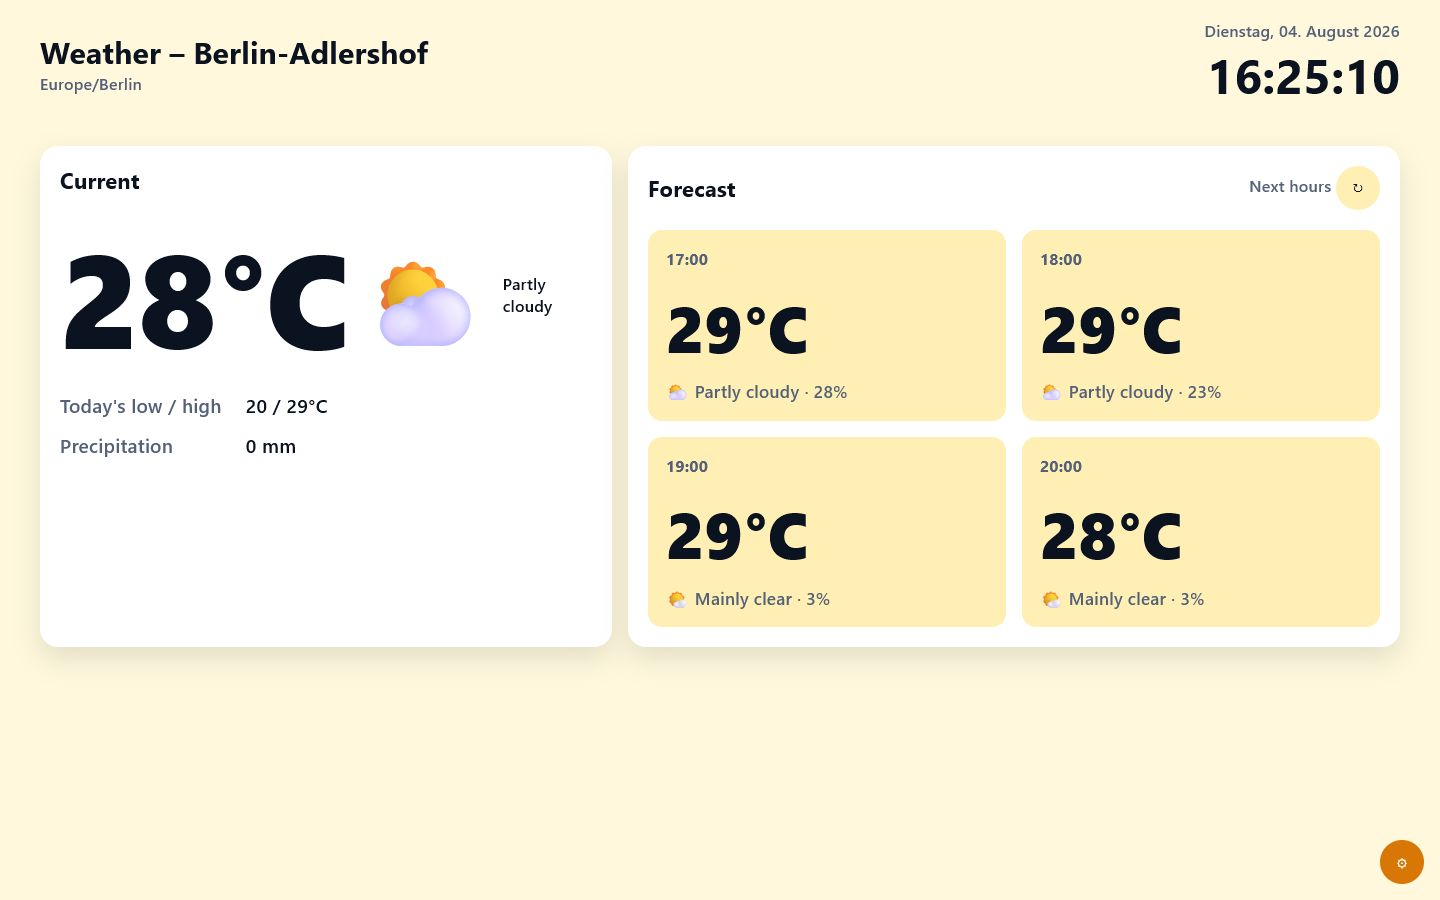
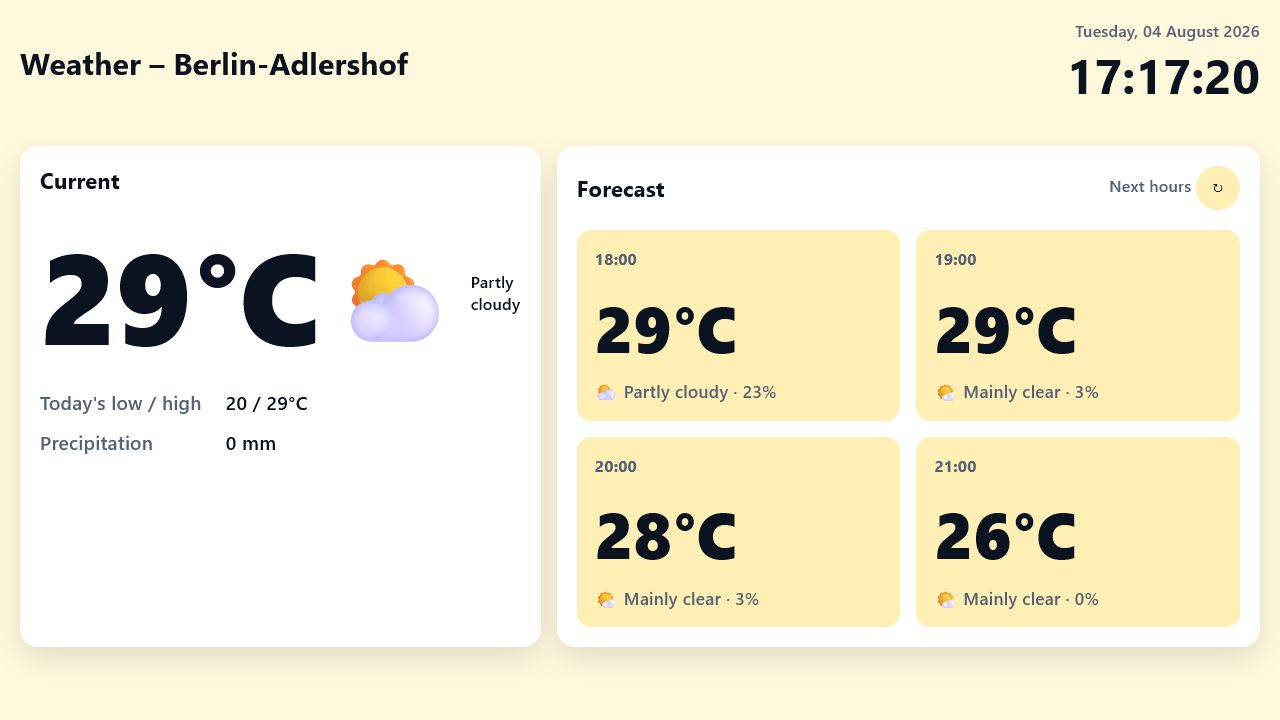
Refresh documentation and screenshots

diff --git a/app.js b/app.js
@@ -1,22 +1,23 @@
-import { DEFAULT_CONFIG } from "./config.js?v=3.7.1";
-import { cacheKey, configFromUrl, weatherInfo } from "./weather.js?v=3.7.1";
-import { fetchWeather, getProvider } from "./providers.js?v=3.7.1";
-import { initialiseSettings, loadSettings } from "./settings.js?v=3.7.1";
+import { DEFAULT_CONFIG } from "./config.js?v=3.7.2";
+import { cacheKey, configFromUrl, weatherInfo } from "./weather.js?v=3.7.2";
+import { fetchWeather, getProvider } from "./providers.js?v=3.7.2";
+import { initialiseSettings, loadSettings } from "./settings.js?v=3.7.2";
 import {
   compareVersions,
   getLatestRelease,
   RELEASES_URL,
-} from "./version.js?v=3.7.1";
+  VERSION_CACHE_KEY,
+} from "./version.js?v=3.7.2";
 import {
   getYearProgress,
   getYearProgressPresentation,
-} from "./progress.js?v=3.7.1";
+} from "./progress.js?v=3.7.2";
 import {
   detectDisplay,
   formatDisplaySummary,
   resolveDisplay,
-} from "./display.js?v=3.7.1";
-import { applyStaticTranslations, translate } from "./i18n.js?v=3.7.1";
+} from "./display.js?v=3.7.2";
+import { applyStaticTranslations, translate } from "./i18n.js?v=3.7.2";
 
 const config = configFromUrl({ ...DEFAULT_CONFIG, ...loadSettings() });
 config.locale = config.language === "de" ? "de-DE" : "en-GB";
@@ -42,7 +43,9 @@ async function renderVersionStatus() {
   const element = $("latest-version");
   element.href = RELEASES_URL;
   try {
-    const latest = await getLatestRelease();
+    const latest = await getLatestRelease({
+      cacheKey: `${VERSION_CACHE_KEY}:${config.version}`,
+    });
     const updateAvailable = compareVersions(latest, config.version) > 0;
     element.textContent = updateAvailable
       ? t("updateAvailable", { version: latest })

diff --git a/version.js b/version.js
@@ -23,9 +23,9 @@ export function compareVersions(left, right) {
   return 0;
 }
 
-function readCachedRelease(storage, now) {
+function readCachedRelease(storage, now, cacheKey) {
   try {
-    const cached = JSON.parse(storage.getItem(VERSION_CACHE_KEY));
+    const cached = JSON.parse(storage.getItem(cacheKey));
     if (
       cached?.version &&
       Number.isFinite(cached.checkedAt) &&
@@ -42,8 +42,9 @@ export async function getLatestRelease({
   fetchImpl = fetch,
   storage = localStorage,
   now = Date.now(),
+  cacheKey = VERSION_CACHE_KEY,
 } = {}) {
-  const cached = readCachedRelease(storage, now);
+  const cached = readCachedRelease(storage, now, cacheKey);
   if (cached) return cached;
 
   const response = await fetchImpl(LATEST_RELEASE_API, {
@@ -56,10 +57,7 @@ export async function getLatestRelease({
   if (!/^\d+\.\d+\.\d+$/.test(version))
     throw new Error("GitHub returned an invalid release version");
   try {
-    storage.setItem(
-      VERSION_CACHE_KEY,
-      JSON.stringify({ version, checkedAt: now }),
-    );
+    storage.setItem(cacheKey, JSON.stringify({ version, checkedAt: now }));
   } catch {
     // The live result remains usable when storage is unavailable.
   }

diff --git a/index.html b/index.html
@@ -9,8 +9,8 @@
       content="A resilient, backend-free DWD weather display for kiosk browsers."
     />
     <title>Weather display</title>
-    <link rel="stylesheet" href="styles.css?v=3.7.1" />
-    <link rel="manifest" href="manifest.webmanifest?v=3.7.1" />
+    <link rel="stylesheet" href="styles.css?v=3.7.2" />
+    <link rel="manifest" href="manifest.webmanifest?v=3.7.2" />
   </head>
   <body>
     <button
@@ -421,10 +421,10 @@
           }
         });
         navigator.serviceWorker
-          .register("./sw.js?v=3.7.1", { updateViaCache: "none" })
+          .register("./sw.js?v=3.7.2", { updateViaCache: "none" })
           .catch(() => {});
       }
     </script>
-    <script type="module" src="app.js?v=3.7.1"></script>
+    <script type="module" src="app.js?v=3.7.2"></script>
   </body>
 </html>

diff --git a/test/version.test.js b/test/version.test.js
@@ -28,4 +28,14 @@ test("loads and caches the latest GitHub release", async () => {
     "3.0.3",
   );
   assert.match(values.get(VERSION_CACHE_KEY), /3\.0\.3/);
+  assert.equal(
+    await getLatestRelease({
+      fetchImpl,
+      storage,
+      now: 2000,
+      cacheKey: `${VERSION_CACHE_KEY}:3.7.2`,
+    }),
+    "3.0.3",
+  );
+  assert.match(values.get(`${VERSION_CACHE_KEY}:3.7.2`), /3\.0\.3/);
 });

diff --git a/scripts/validate-site.js b/scripts/validate-site.js
@@ -15,6 +15,12 @@ const requiredFiles = [
   "manifest.webmanifest",
   "config.js",
   "LICENSE",
+  "docs/images/kiosk-desktop.png",
+  "docs/images/kiosk-daily-forecast.png",
+  "docs/images/settings-dialog.png",
+  "docs/images/settings-appearance.png",
+  "docs/images/mode-essential.png",
+  "docs/images/mode-glance.png",
 ];
 
 await Promise.all(requiredFiles.map((file) => access(file)));

diff --git a/config.js b/config.js
@@ -3,7 +3,7 @@
  * ?lat=52.4357&lon=13.5406&name=Berlin-Adlershof&timezone=Europe/Berlin
  */
 export const DEFAULT_CONFIG = Object.freeze({
-  version: "3.7.1",
+  version: "3.7.2",
   latitude: 52.4357,
   longitude: 13.5406,
   locationName: "Berlin-Adlershof",

diff --git a/providers.js b/providers.js
@@ -1,4 +1,4 @@
-import { buildWeatherUrl, normalizeWeather } from "./weather.js?v=3.7.1";
+import { buildWeatherUrl, normalizeWeather } from "./weather.js?v=3.7.2";
 
 export const WEATHER_PROVIDERS = Object.freeze({
   openMeteoDwd: Object.freeze({

diff --git a/progress.js b/progress.js
@@ -58,4 +58,4 @@ export function getYearProgressPresentation(
     hidden: mode === "hidden",
   };
 }
-import { translate } from "./i18n.js?v=3.7.1";
+import { translate } from "./i18n.js?v=3.7.2";

diff --git a/sw.js b/sw.js
@@ -1,4 +1,4 @@
-const VERSION = "3.7.1";
+const VERSION = "3.7.2";
 const CACHE = `weather-display-shell-v${VERSION}`;
 const asset = (path) => `${path}?v=${VERSION}`;
 const ASSETS = [

diff --git a/README.md b/README.md
@@ -1,8 +1,10 @@
 # Weather Info Display
 
-A backend-free weather dashboard designed for an unattended browser in kiosk mode. It uses the high-resolution DWD ICON forecast through Open-Meteo, ships as static files, and requires no API key.
+A privacy-friendly, bilingual weather dashboard for unattended kiosk, wall-tablet, and smart-display browsers. The standard configuration uses the high-resolution DWD ICON forecast through Open-Meteo, runs entirely as static files, and requires no API key.
 
-Berlin-Adlershof is the included example location. You can change it without rebuilding the application.
+[Live demo](https://heckpiet.github.io/Info-Display-Wetter_Berlin_Adlershof/) · [Latest release](https://github.com/heckpiet/Info-Display-Wetter_Berlin_Adlershof/releases/latest) · [Documentation](docs/SETTINGS.md) · [Provider setup](docs/WEATHER_PROVIDERS.md)
+
+Berlin-Adlershof is the included example location. Location, language, visual density, icon style, kiosk spacing, and secondary-information behavior can be changed without rebuilding the application.
 
 ## Screenshots
 
@@ -10,7 +12,7 @@ Berlin-Adlershof is the included example location. You can change it without reb
 
 ![Desktop kiosk view with current weather and the hourly forecast](docs/images/kiosk-desktop.png)
 
-The default desktop layout presents the current conditions, four upcoming hours, a live clock, data age, and year progress at a glance.
+The default desktop layout prioritizes current conditions, four upcoming hours, and a live clock. Routine provider, version, freshness, and year-progress information automatically leaves the layout after inactivity; important offline, error, and update states remain visible.
 
 ### Daily forecast
 
@@ -18,11 +20,13 @@ The default desktop layout presents the current conditions, four upcoming hours,
 
 The forecast card switches automatically or manually between the next four hours and the next four days.
 
-### Display settings
+### Display and appearance settings
 
-![Display settings dialog](docs/images/settings-dialog.png)
+| Display, scaling, and kiosk edges                                                              | Language, icons, and secondary information                                                               |
+| ---------------------------------------------------------------------------------------------- | -------------------------------------------------------------------------------------------------------- |
+| ![Display settings with responsive profiles and edge spacing](docs/images/settings-dialog.png) | ![Appearance settings with language, icon, and visibility controls](docs/images/settings-appearance.png) |
 
-Location, refresh and cache intervals, theme, font scale, density, and layout can be changed directly on the display. Settings are stored only in the local browser and can be exported or imported as JSON.
+The four keyboard-accessible tabs cover location/data, display/layout, appearance/behavior, and backup/reset. Settings are stored only in the local browser and can be exported or imported as JSON.
 
 > The screenshots show live forecast data captured for the Berlin-Adlershof example. Values and the adaptive theme change with time and weather conditions.
 
@@ -36,17 +40,18 @@ Choose **Essential** for a quieter wall display or **Glance** for maximum readab
 
 ## Features
 
-- Current conditions and alternating hourly/daily forecast
+- Current conditions and alternating four-hour/four-day forecast
 - Daily low/high, wind gusts, UV index, full date, and explicit data age
 - Automatic light/dark theme based on sunrise and sunset
 - Four adaptive day-phase themes, manual forecast switching, and kiosk display profiles
-- Responsive kiosk layout for tablets and desktop displays
+- Responsive kiosk layout for phones, tablets, desktop displays, and TVs
 - Detailed, essential, and distance-optimized glance information modes
 - Cached last-known-good data when the network or API is unavailable
 - Automatic refresh, timeout, and retry handling
 - URL-based location configuration
 - Provider abstraction with proxy-ready DWD, MET Norway, and OpenWeather profiles
-- GitHub Pages deployment and pull-request quality checks
+- Atomic, versioned offline assets that prevent mixed-release layouts
+- GitHub Pages deployment after pull-request and main-branch quality checks
 - Running and latest GitHub release versions shown directly on the display
 - Configurable year progress as percentage, elapsed days, both, or hidden
 - Viewport- and capability-aware device profiles with manual scale and width overrides
@@ -86,7 +91,7 @@ https://example.github.io/repository/?lat=53.5511&lon=9.9937&name=Hamburg&timezo
 
 Supported parameters are `lat`, `lon`, `name`, `timezone`, and `locale`. Invalid coordinates are ignored. Use an [IANA timezone name](https://en.wikipedia.org/wiki/List_of_tz_database_time_zones).
 
-`locale` controls date, time, and number formatting, not the interface language. The repository and interface remain English; `de-DE` is the appropriate default formatting locale for the Berlin-Adlershof example. Unsupported locale and timezone overrides are ignored safely.
+`locale` controls date, time, and number formatting. The independently selectable interface language supports German and English; `de-DE` is the appropriate default formatting locale for the Berlin-Adlershof example. Unsupported locale and timezone overrides are ignored safely.
 
 ## Kiosk mode
 
@@ -122,7 +127,7 @@ Before enabling it, review the complete [Package E prerequisites and go-live che
 
 ## CI/CD and deployment
 
-`quality.yml` runs linting, formatting checks, tests, and a live API smoke test on pushes and pull requests. `deploy-pages.yml` publishes the exact static files to GitHub Pages after quality checks pass on `main`.
+`quality.yml` runs linting, formatting checks, automated tests, static-site validation, release-asset version alignment, and a live API smoke test on pushes and pull requests. `deploy-pages.yml` publishes the exact static files to GitHub Pages only after quality checks pass on `main`. Versioned module, stylesheet, manifest, and service-worker URLs keep online and offline clients on one coherent release.
 
 To enable deployment:
 
@@ -150,7 +155,7 @@ npm run smoke
 
 ## Privacy and resilience
 
-The browser contacts only `api.open-meteo.com`. The latest successful response is stored in browser `localStorage` for up to 12 hours. It contains public forecast data and the configured location, not personal data. If no usable cache exists, the page remains visible with an error state and retries automatically.
+The default browser contacts `api.open-meteo.com` for weather and GitHub's public releases API for the optional update indicator. The latest successful forecast is stored in browser `localStorage` for up to 12 hours. It contains public forecast data and the configured location, not personal data. There are no cookies, analytics, or accounts. If no usable cache exists, the page remains visible with an error state and retries automatically.
 
 ## Legacy Apps Script migration
 

diff --git a/docs/SETTINGS.md b/docs/SETTINGS.md
@@ -9,6 +9,10 @@ The dialog groups controls into four keyboard-accessible tabs:
 - **Appearance & behavior:** theme, forecast rotation, and year-progress presentation
 - **Backup & reset:** JSON export/import and restoring defaults
 
+| Display and edge controls                       | Appearance and behavior controls                       |
+| ----------------------------------------------- | ------------------------------------------------------ |
+| ![Display settings](images/settings-dialog.png) | ![Appearance settings](images/settings-appearance.png) |
+
 Use `Left Arrow` and `Right Arrow` to move between tabs, or `Home` and `End` to jump to the first or last tab. The active tab and keyboard focus remain visibly distinct, following the [WAI-ARIA tabs pattern](https://www.w3.org/WAI/ARIA/apg/patterns/tabs/).
 
 Never store API keys in settings. Provider credentials belong in the controlled proxy described in [WEATHER_PROVIDERS.md](WEATHER_PROVIDERS.md).

diff --git a/CHANGELOG.md b/CHANGELOG.md
@@ -4,6 +4,16 @@ All notable changes are documented here. This project follows [Semantic Versioni
 
 ## [Unreleased]
 
+## [3.7.2] - 2026-08-04
+
+### Changed
+
+- Refresh every README screenshot from the current production interface at a consistent 1280×720 viewport
+- Add separate Display and Appearance settings screenshots covering edge spacing and secondary-information controls
+- Rewrite the project overview, feature summary, privacy notes, configuration guidance, and CI/CD description for the current application
+- Update repository description and discovery topics for kiosk, wall-display, PWA, dashboard, and bilingual use cases
+- Scope the cached GitHub release result to the installed application version so a new release checks immediately instead of showing an older cached version
+
 ## [3.7.1] - 2026-08-04
 
 ### Fixed
